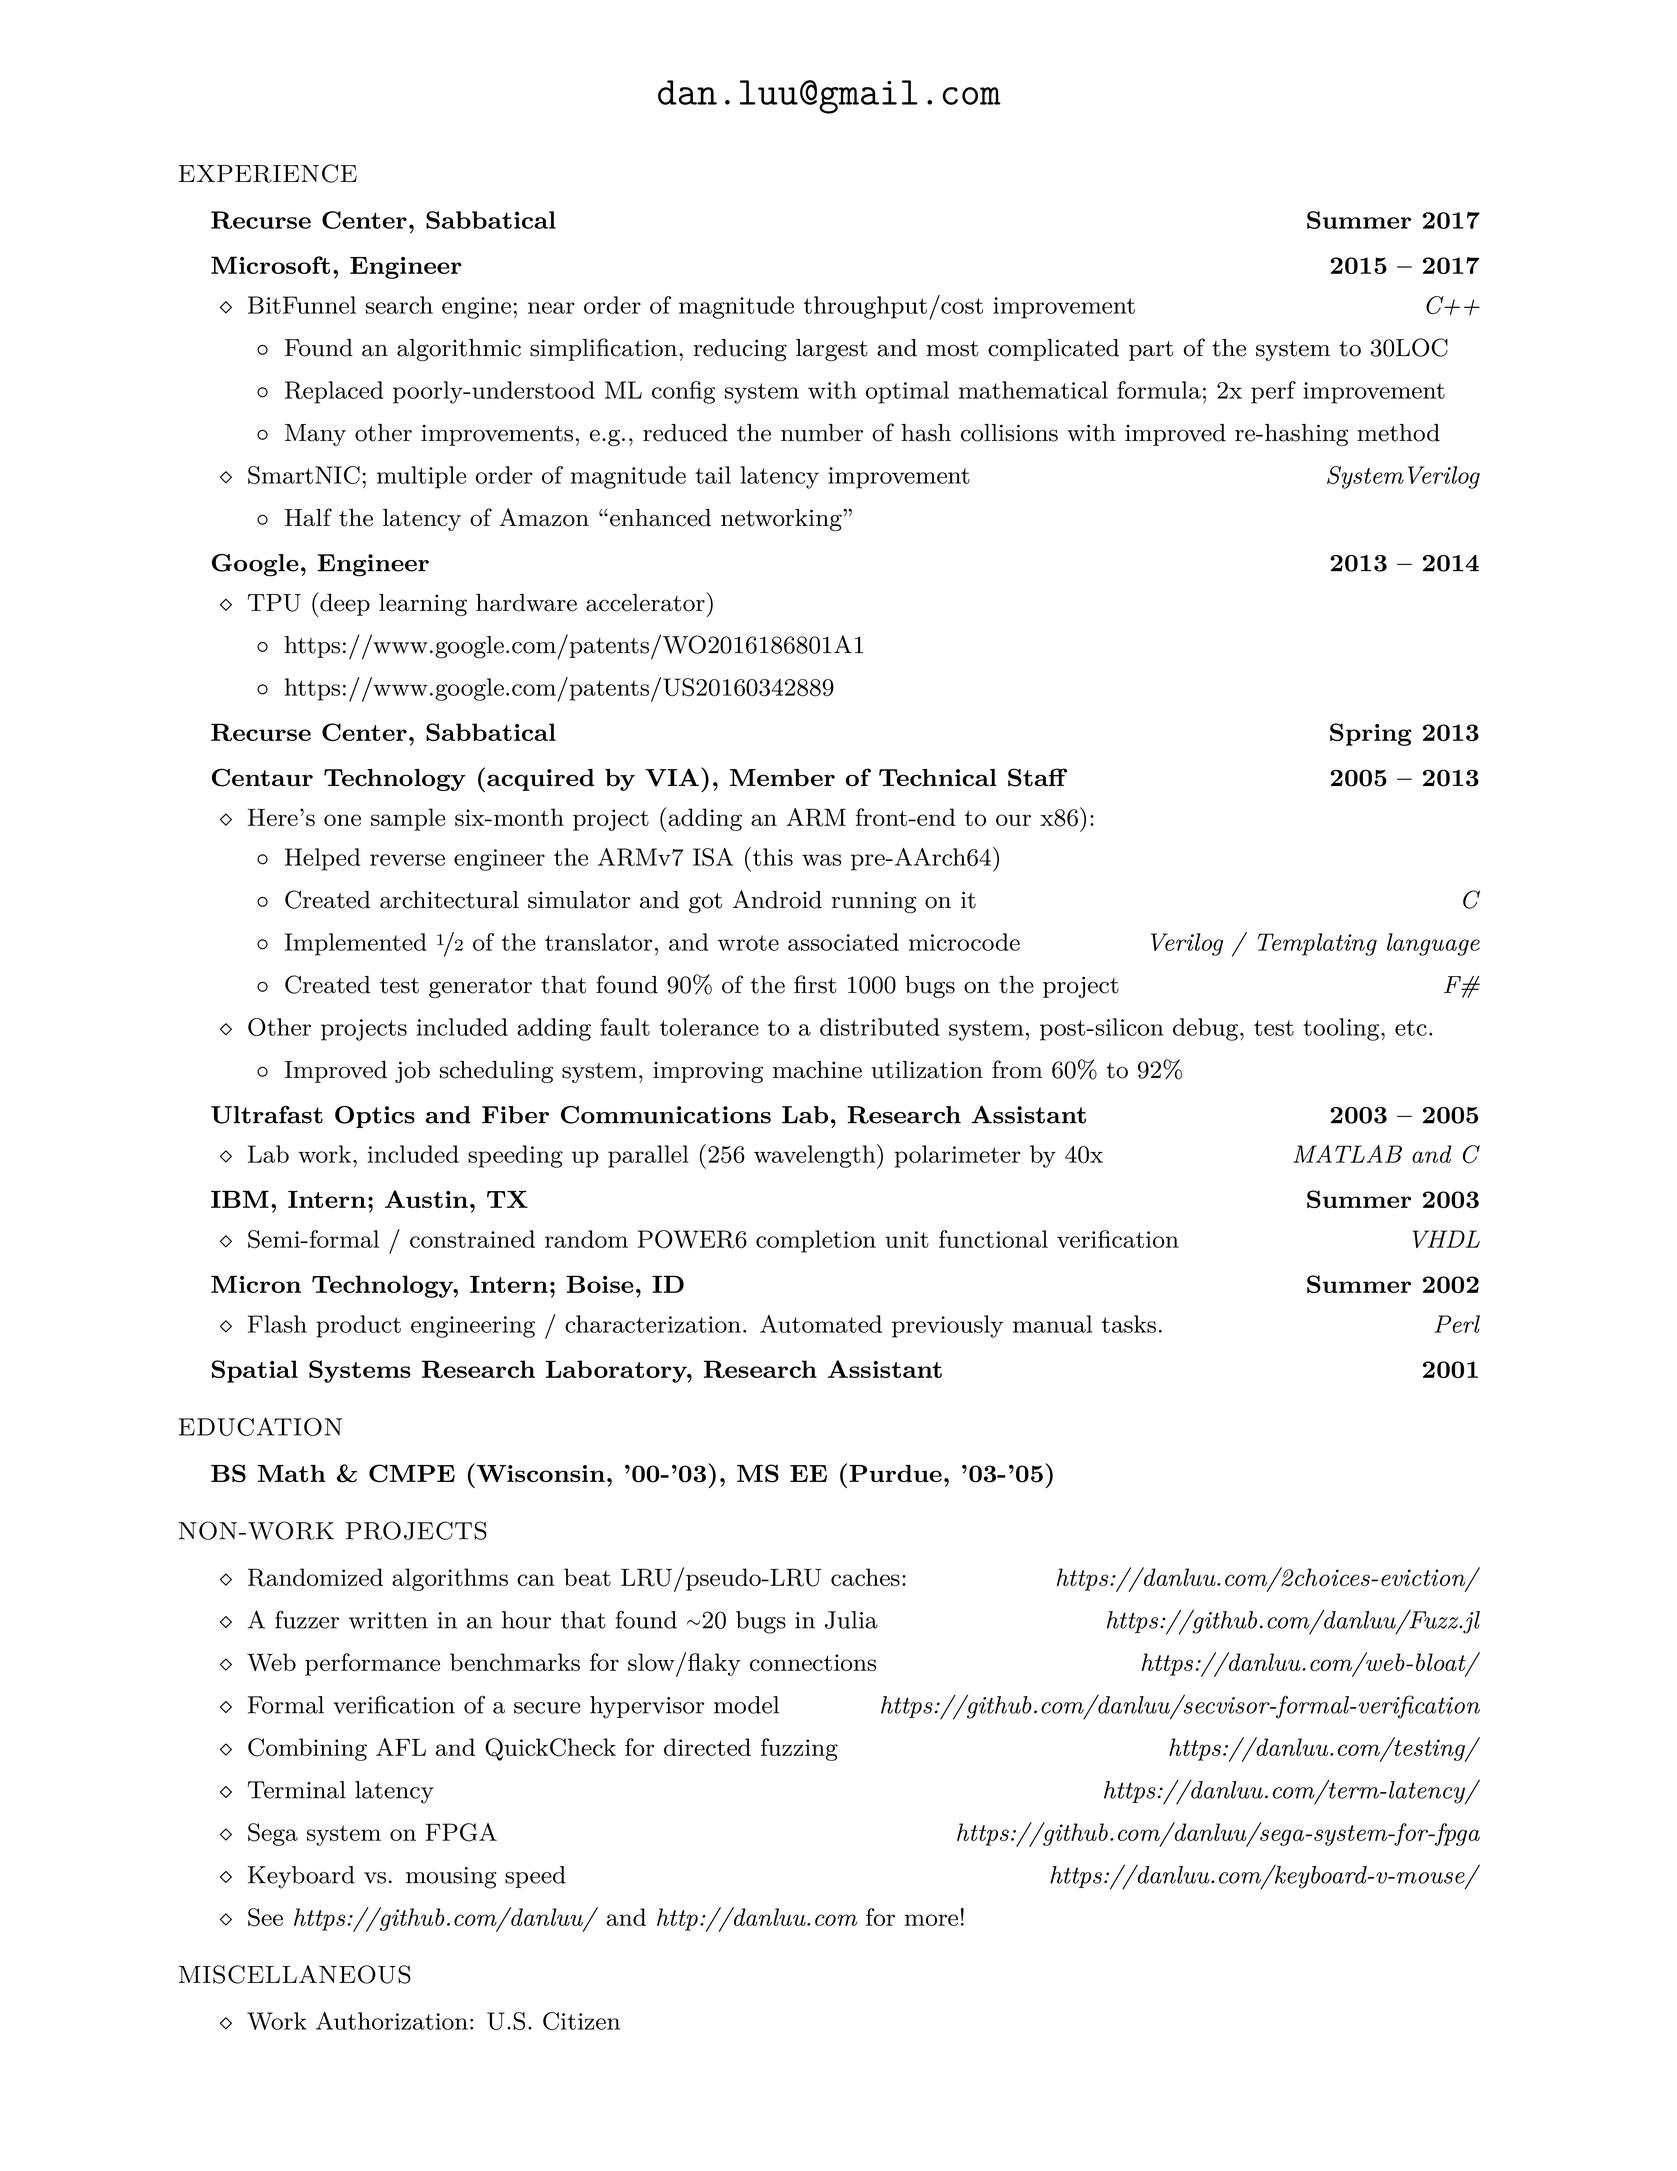
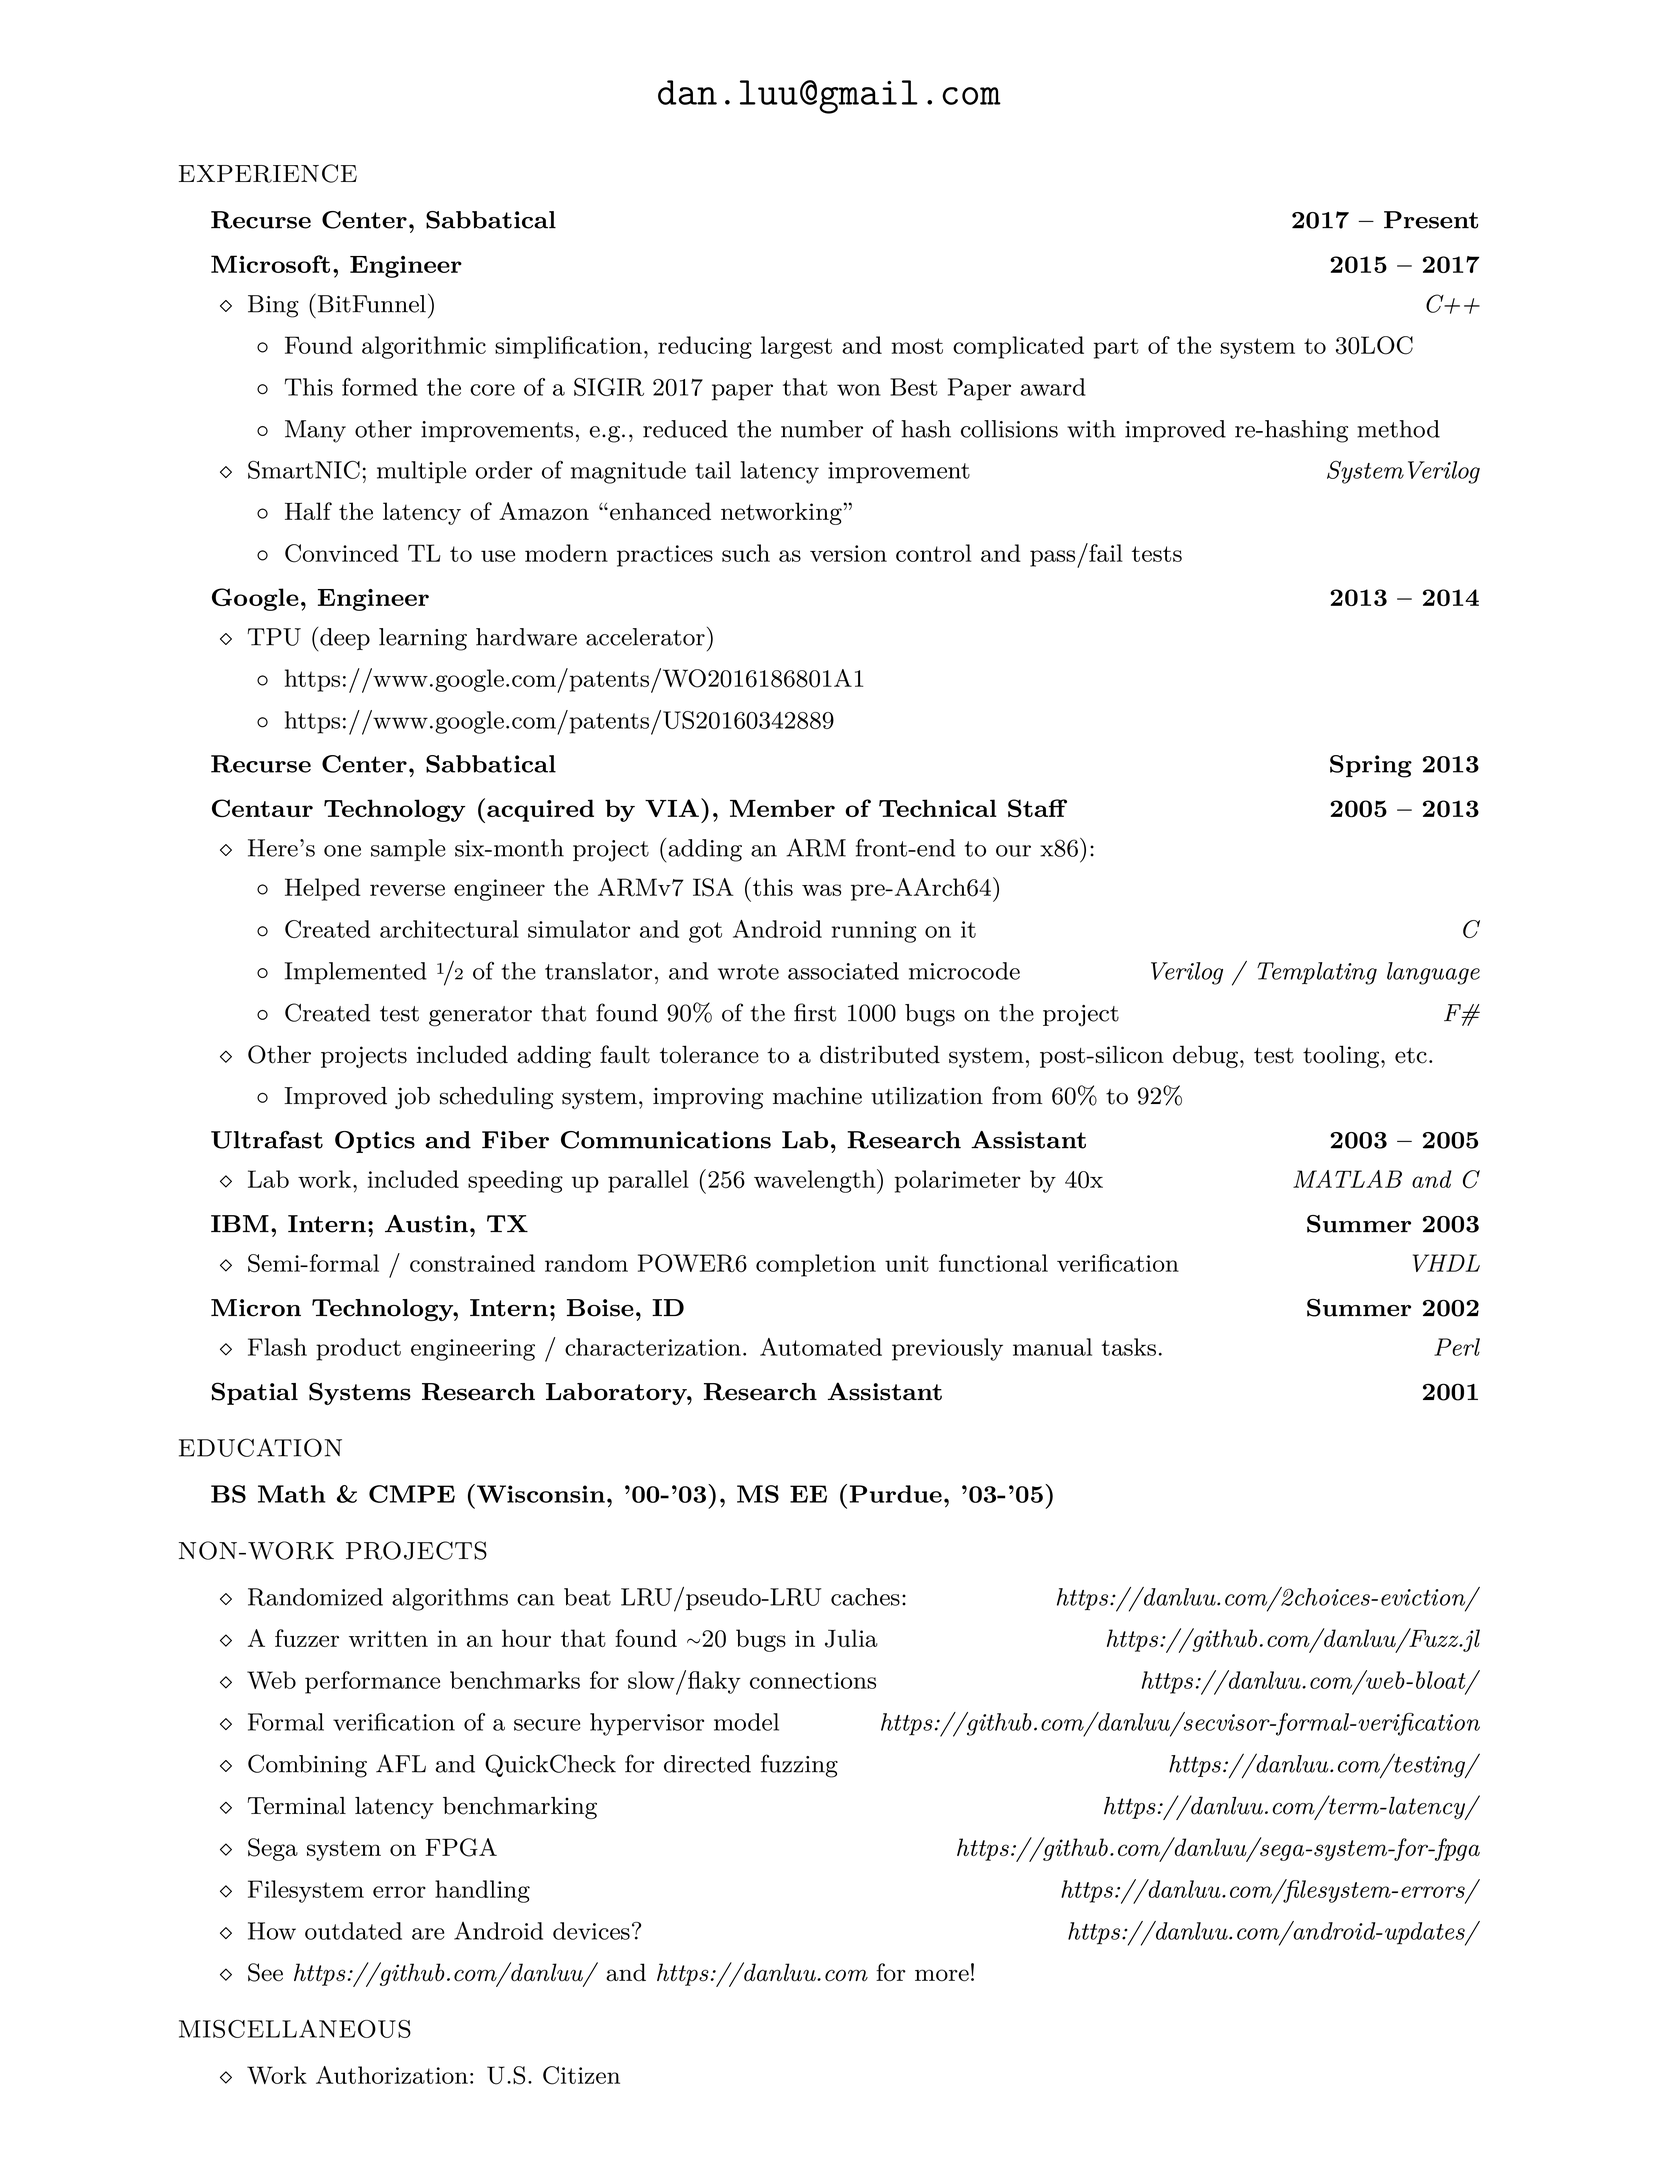
Mention SIGIR result.

diff --git a/resume.tex b/resume.tex
@@ -44,11 +44,11 @@
 \item \begin{tabular1bold} Microsoft, Engineer  & 2015 -- 2017 \end{tabular1bold}
 
   \begin{list2}
-  \item BitFunnel search engine; near order of magnitude throughput/cost improvement \hfill \emph{C++}
+  \item Bing (BitFunnel) \hfill \emph{C++}
 
     \begin{list3}
-      \item Found an algorithmic simplification, reducing largest and most complicated part of the system to 30LOC
-      \item Replaced poorly-understood ML config system with optimal mathematical formula; 2x perf improvement
+      \item Found algorithmic simplification, reducing largest and most complicated part of the system to 30LOC
+      \item This formed the core of a SIGIR 2017 paper that won Best Paper award
       \item Many other improvements, e.g., reduced the number of hash collisions with improved re-hashing method
     \end{list3}
 
@@ -56,6 +56,7 @@
 
     \begin{list3}
       \item Half the latency of Amazon ``enhanced networking''
+      \item Convinced TL to use modern practices such as version control and pass/fail tests
     \end{list3}
 
   \end{list2}
